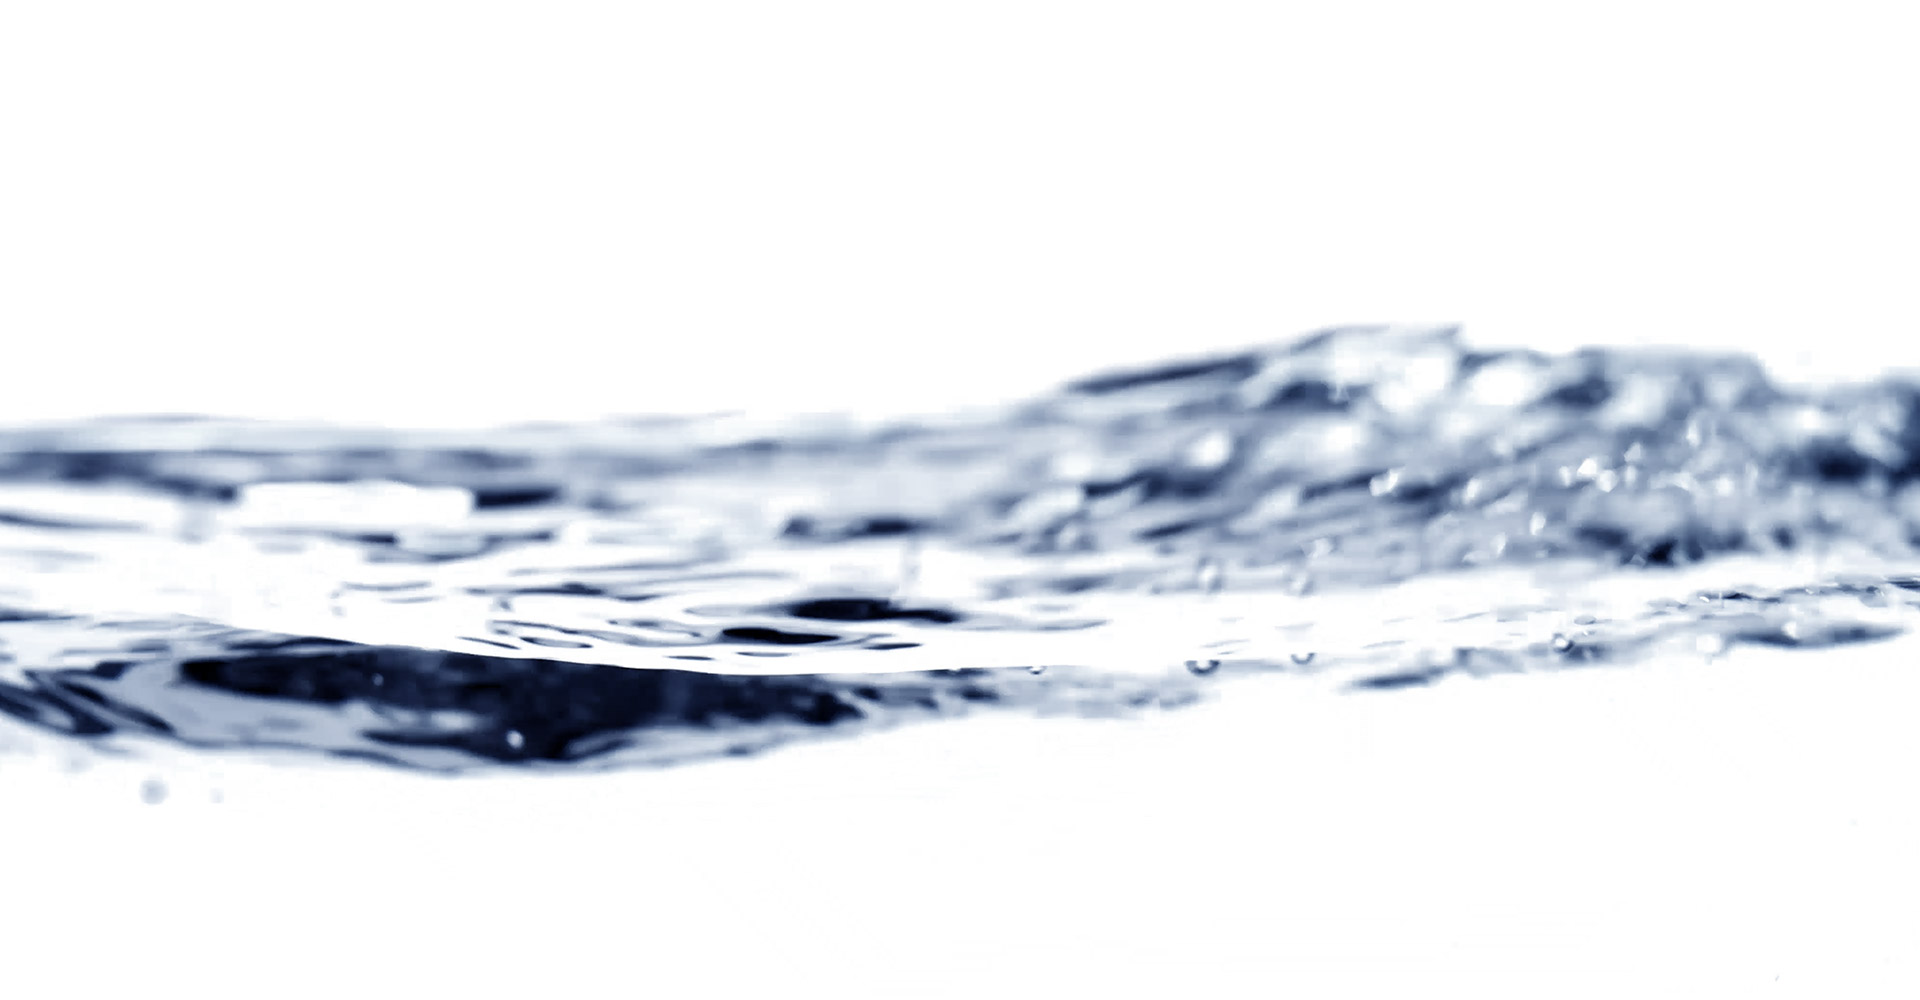
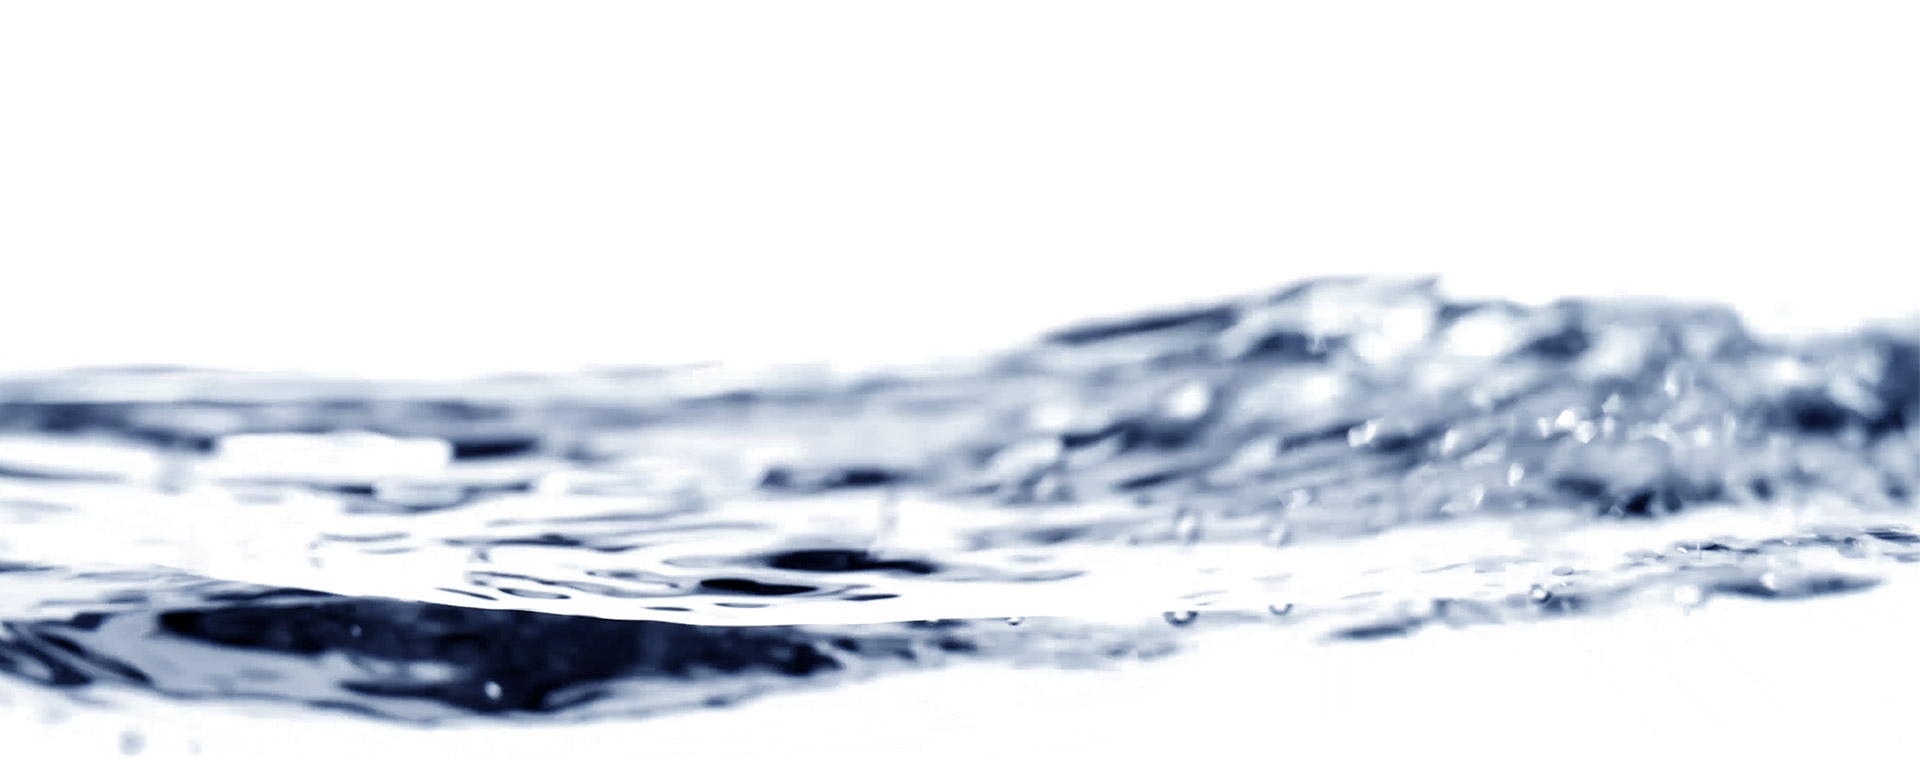
웹 ZNE 팔리 1807 업데이트

diff --git a/app/html/adidas/event/parley/parley_zne/build/index.html b/app/html/adidas/event/parley/parley_zne/build/index.html
@@ -1018,7 +1018,7 @@
 
 
 <div id="container_r" class="campaign-content">
-<style type="text/css">.pseudo-element{content:'';display:block}.parley{background-color:white;position:relative;overflow:hidden}.parley .box1{position:relative;overflow:hidden;height:1000px}.parley .box1 .img{position:absolute;top:50%;left:50%;margin-top:-500px;margin-left:-960px}.parley .box1 .txt{position:absolute;top:50%;right:50%;margin-right:-645.5px;margin-top:-260px;z-index:1}.parley .box1 .txt img{width:83%}.parley .box1 .txt h1{font:400 5.3rem/5rem 'adihausDIN-Cond';color:#fff;letter-spacing:2px;margin:30px 0}.parley .box1 .txt p{font:400 1.1rem/1.6rem 'NotoSansKR','adinenuPro-regular';color:#fff;font-weight:400;margin-bottom:50px}.parley .box1 .txt .btn1,.parley .box1 .txt .btn2{margin:9px 0}.parley .box1 .txt .btn1 a,.parley .box1 .txt .btn2 a{background-color:#000;padding:12px 70px;color:#fff;font:400 .9rem/1.6rem 'NotoSansKR';display:inline-block}.parley .box1 .txt span.spt_bg{width:14px;background-image:url("/images/adidas/event/parley/parley_zne/arrow.png") 0 0 no-repeat}.box2{position:relative;overflow:hidden;height:1000px}.box2 .txt{position:absolute;top:150px;left:50%;margin-left:-308px;z-index:1;text-align:center}.box2 .txt h2{font:500 2.1rem/1.6rem 'NotoSansKR';color:#000;display:inline-block}.box2 .txt p{font:400 1.1rem/1.6rem 'NotoSansKR';color:#000;font-weight:300;text-align:center;margin:40px 0}.box2 .img img{position:absolute;top:0;left:50%;margin-left:-960px}.box3{position:relative;overflow:hidden;height:800px}.box3 .txt{position:absolute;top:50%;left:50%;margin-left:-530px;margin-top:-120px;text-align:left;z-index:1}.box3 .txt h3{font:500 2.1rem/2.5rem 'NotoSansKR';color:#000;display:inline-block}.box3 .txt p{font:400 1.1rem/1.6rem 'NotoSansKR';color:#000;font-weight:300;margin:25px 0}.box3 .img img{position:absolute;top:0;left:50%;margin-left:-960px}.box3 #img img{position:absolute;top:35px;left:50%;margin-left:-90px}.box4{position:relative;overflow:hidden;height:800px}.box4 .txt{position:absolute;top:50%;right:50%;margin-right:-620px;margin-top:-110px;z-index:1;text-align:right}.box4 .txt h4{font:500 2.1rem/2.5rem 'NotoSansKR';color:#000;display:inline-block}.box4 .txt p{font:400 1.1rem/1.6rem 'NotoSansKR';color:#000;font-weight:300;margin:25px 0}.box4 .img img{position:absolute;top:0;right:50%;margin-right:-960px}.box4 #img img{position:absolute;top:100px;right:50%;margin-right:-90px}.box5{position:relative;overflow:hidden}.box5 .content_inner{padding:0 1rem !important}.box5 #gridboxIn{position:absolute;top:50%;right:50%;margin-top:-73px;margin-right:-92px;text-align:center;text-align:center}.box5 #gridboxIn::after{content:'';clear:both;position:block}.box5 #gridboxIn .gridheadIn{font:500 2.1rem/2.5rem "NotoSansKR";color:#fff;text-align:center}.box5 #gridboxIn .gridparaIn{font:400 1.1rem/1.6rem "NotoSansKR";color:#fff;text-align:center;margin:20px 0 45px 0}.box5 #gridboxIn .btn_test{display:inline-block;background:#fff;font:300 12px 'adinenuPro-regular','NotoSansKR';color:#000;padding:10px 25px}.box5 #gridboxIn .btn_test span.spt_bg{width:14px;background-image:url("/images/adidas/event/parley/parley_zne/arrow.png") 0 0 no-repeat}.box6{position:relative;overflow:hidden;height:700px}.box6 .txt{position:absolute;top:50%;left:50%;margin-left:-268px;margin-top:-117px;z-index:1;text-align:center}.box6 .txt h6{font:500 2.1rem/1.6rem 'NotoSansKR';color:#000;display:inline-block}.box6 .txt p{font:400 1.1rem/1.6rem 'NotoSansKR';color:#000;font-weight:300;text-align:center;margin:30px 0 60px 0}.box6 .txt a{border:2px solid black;padding:15px 45px;color:black;font:500 1.1rem 'adinenuPro-regular','NotoSansKR'}.box6 .img img{position:absolute;top:0;left:50%;margin-left:-960px}.box7{position:relative;overflow:hidden}.box7 .img img{width:100%}
+<style type="text/css">.pseudo-element{content:'';display:block}.parley{background-color:white;position:relative;overflow:hidden}.parley .box1{position:relative;overflow:hidden;height:1000px}.parley .box1 .img{position:absolute;top:50%;left:50%;margin-top:-500px;margin-left:-960px}.parley .box1 .txt{position:absolute;top:50%;right:50%;margin-right:-645.5px;margin-top:-260px;z-index:1}.parley .box1 .txt img{width:83%}.parley .box1 .txt h1{font:400 5.3rem/5rem 'adihausDIN-Cond';color:#fff;letter-spacing:2px;margin:30px 0}.parley .box1 .txt p{font:400 1.1rem/1.6rem 'NotoSansKR','adinenuPro-regular';color:#fff;font-weight:400;margin-bottom:50px}.parley .box1 .txt .btn1,.parley .box1 .txt .btn2{margin:9px 0}.parley .box1 .txt .btn1 a,.parley .box1 .txt .btn2 a{background-color:#000;padding:12px 70px;color:#fff;font:400 .9rem/1.6rem 'NotoSansKR';display:inline-block}.parley .box1 .txt span.spt_bg{width:14px;background-image:url("/images/adidas/event/parley/parley_zne/arrow.png") 0 0 no-repeat}.box2{position:relative;overflow:hidden;height:759px}.box2 .txt{position:absolute;top:150px;left:50%;margin-left:-308px;z-index:1;text-align:center}.box2 .txt h2{font:500 2.1rem/1.6rem 'NotoSansKR';color:#000;display:inline-block}.box2 .txt p{font:400 1.1rem/1.6rem 'NotoSansKR';color:#000;font-weight:300;text-align:center;margin:40px 0}.box2 .img img{position:absolute;top:0;left:50%;margin-left:-960px}.box3{position:relative;overflow:hidden;height:800px}.box3 .txt{position:absolute;top:50%;left:50%;margin-left:-530px;margin-top:-120px;text-align:left;z-index:1}.box3 .txt h3{font:500 2.1rem/2.5rem 'NotoSansKR';color:#000;display:inline-block}.box3 .txt p{font:400 1.1rem/1.6rem 'NotoSansKR';color:#000;font-weight:300;margin:25px 0}.box3 .img img{position:absolute;top:50%;left:50%;margin-top:-400px;margin-left:-960px}.box4{position:relative;overflow:hidden;height:800px}.box4 .txt{position:absolute;top:50%;right:50%;margin-right:-620px;margin-top:-110px;z-index:1;text-align:right}.box4 .txt h4{font:500 2.1rem/2.5rem 'NotoSansKR';color:#000;display:inline-block}.box4 .txt p{font:400 1.1rem/1.6rem 'NotoSansKR';color:#000;font-weight:300;margin:25px 0}.box4 .img img{position:absolute;top:0;right:50%;margin-right:-960px}.box4 #img img{position:absolute;top:100px;right:50%;margin-right:-90px}.box5{position:relative;overflow:hidden}.box5 .content_inner{padding:0 1rem !important}.box5 #gridboxIn{position:absolute;top:50%;right:50%;margin-top:-73px;margin-right:-92px;text-align:center;text-align:center}.box5 #gridboxIn::after{content:'';clear:both;position:block}.box5 #gridboxIn .gridheadIn{font:500 2.1rem/2.5rem "NotoSansKR";color:#fff;text-align:center}.box5 #gridboxIn .gridparaIn{font:400 1.1rem/1.6rem "NotoSansKR";color:#fff;text-align:center;margin:20px 0 45px 0}.box5 #gridboxIn .btn_test{display:inline-block;background:#fff;font:300 12px 'adinenuPro-regular','NotoSansKR';color:#000;padding:10px 25px}.box5 #gridboxIn .btn_test span.spt_bg{width:14px;background-image:url("/images/adidas/event/parley/parley_zne/arrow.png") 0 0 no-repeat}.box6{position:relative;overflow:hidden;height:700px}.box6 .txt{position:absolute;top:50%;left:50%;margin-left:-268px;margin-top:-117px;z-index:1;text-align:center}.box6 .txt h6{font:500 2.1rem/1.6rem 'NotoSansKR';color:#000;display:inline-block}.box6 .txt p{font:400 1.1rem/1.6rem 'NotoSansKR';color:#000;font-weight:300;text-align:center;margin:30px 0 60px 0}.box6 .txt a{border:2px solid black;padding:15px 45px;color:black;font:500 1.1rem 'adinenuPro-regular','NotoSansKR'}.box6 .img img{position:absolute;top:0;left:50%;margin-left:-960px}.box7{position:relative;overflow:hidden}.box7 .img img{width:100%}
 </style>
 
 
@@ -1047,7 +1047,7 @@
 				</div>
 			</div>
 			<div class="img">
-				<img src="/images/adidas/event/parley/parley_zne/banner.jpg" alt="banner">
+				<img src="/images/adidas/event/parley/parley_zne/1807/banner.jpg" alt="banner">
 			</div>
 		</div>
 
@@ -1073,11 +1073,14 @@
 				</p>
 			</div>
 			<div class="img">
+				<img src="/images/adidas/event/parley/parley_zne/1807/img3.jpg" alt="mid2">
+			</div>
+			<!-- <div class="img">
 				<img src="/images/adidas/event/parley/parley_zne/mid2.jpg" alt="mid2">
 			</div>
 			<div id="img">
 				<img src="/images/adidas/event/parley/parley_zne/mid2-1.jpg" alt="mid2-1">
-			</div>
+			</div> -->
 		</div>
 
 		<div class="box4">

diff --git a/app/html/adidas/event/parley/parley_zne/index.scss b/app/html/adidas/event/parley/parley_zne/index.scss
@@ -63,7 +63,7 @@
 	.box2{
 		position: relative;
 		overflow: hidden;
-		height: 1000px;
+		height: 759px;
 		.txt{
 			position: absolute;
 			top: 150px;
@@ -118,22 +118,31 @@
 				    margin: 25px 0;
 				}
 			}
-		.img{
-			img{
-				position: absolute;
-				top: 0;
-				left: 50%;
-				margin-left: -960px;
+			.img{
+				img{
+					position: absolute;
+					top: 50%;
+					left: 50%;
+					margin-top: -400px;
+					margin-left: -960px;
+					}
 			}
-		}
-		#img{
-			img{
-				position: absolute;
-				top: 35px;
-				left: 50%;
-				margin-left: -90px;
-			}
-		}
+		// .img{
+		// 	img{
+		// 		position: absolute;
+		// 		top: 0;
+		// 		left: 50%;
+		// 		margin-left: -960px;
+		// 	}
+		// }
+		// #img{
+		// 	img{
+		// 		position: absolute;
+		// 		top: 35px;
+		// 		left: 50%;
+		// 		margin-left: -90px;
+		// 	}
+		// }
 	}
 
 	.box4{

diff --git a/app/html/adidas/event/parley/parley_zne/index.html b/app/html/adidas/event/parley/parley_zne/index.html
@@ -1045,7 +1045,7 @@
 				</div>
 			</div>
 			<div class="img">
-				<img src="/images/adidas/event/parley/parley_zne/banner.jpg" alt="banner">
+				<img src="/images/adidas/event/parley/parley_zne/1807/banner.jpg" alt="banner">
 			</div>
 		</div>
 
@@ -1071,11 +1071,14 @@
 				</p>
 			</div>
 			<div class="img">
+				<img src="/images/adidas/event/parley/parley_zne/1807/img3.jpg" alt="mid2">
+			</div>
+			<!-- <div class="img">
 				<img src="/images/adidas/event/parley/parley_zne/mid2.jpg" alt="mid2">
 			</div>
 			<div id="img">
 				<img src="/images/adidas/event/parley/parley_zne/mid2-1.jpg" alt="mid2-1">
-			</div>
+			</div> -->
 		</div>
 
 		<div class="box4">
